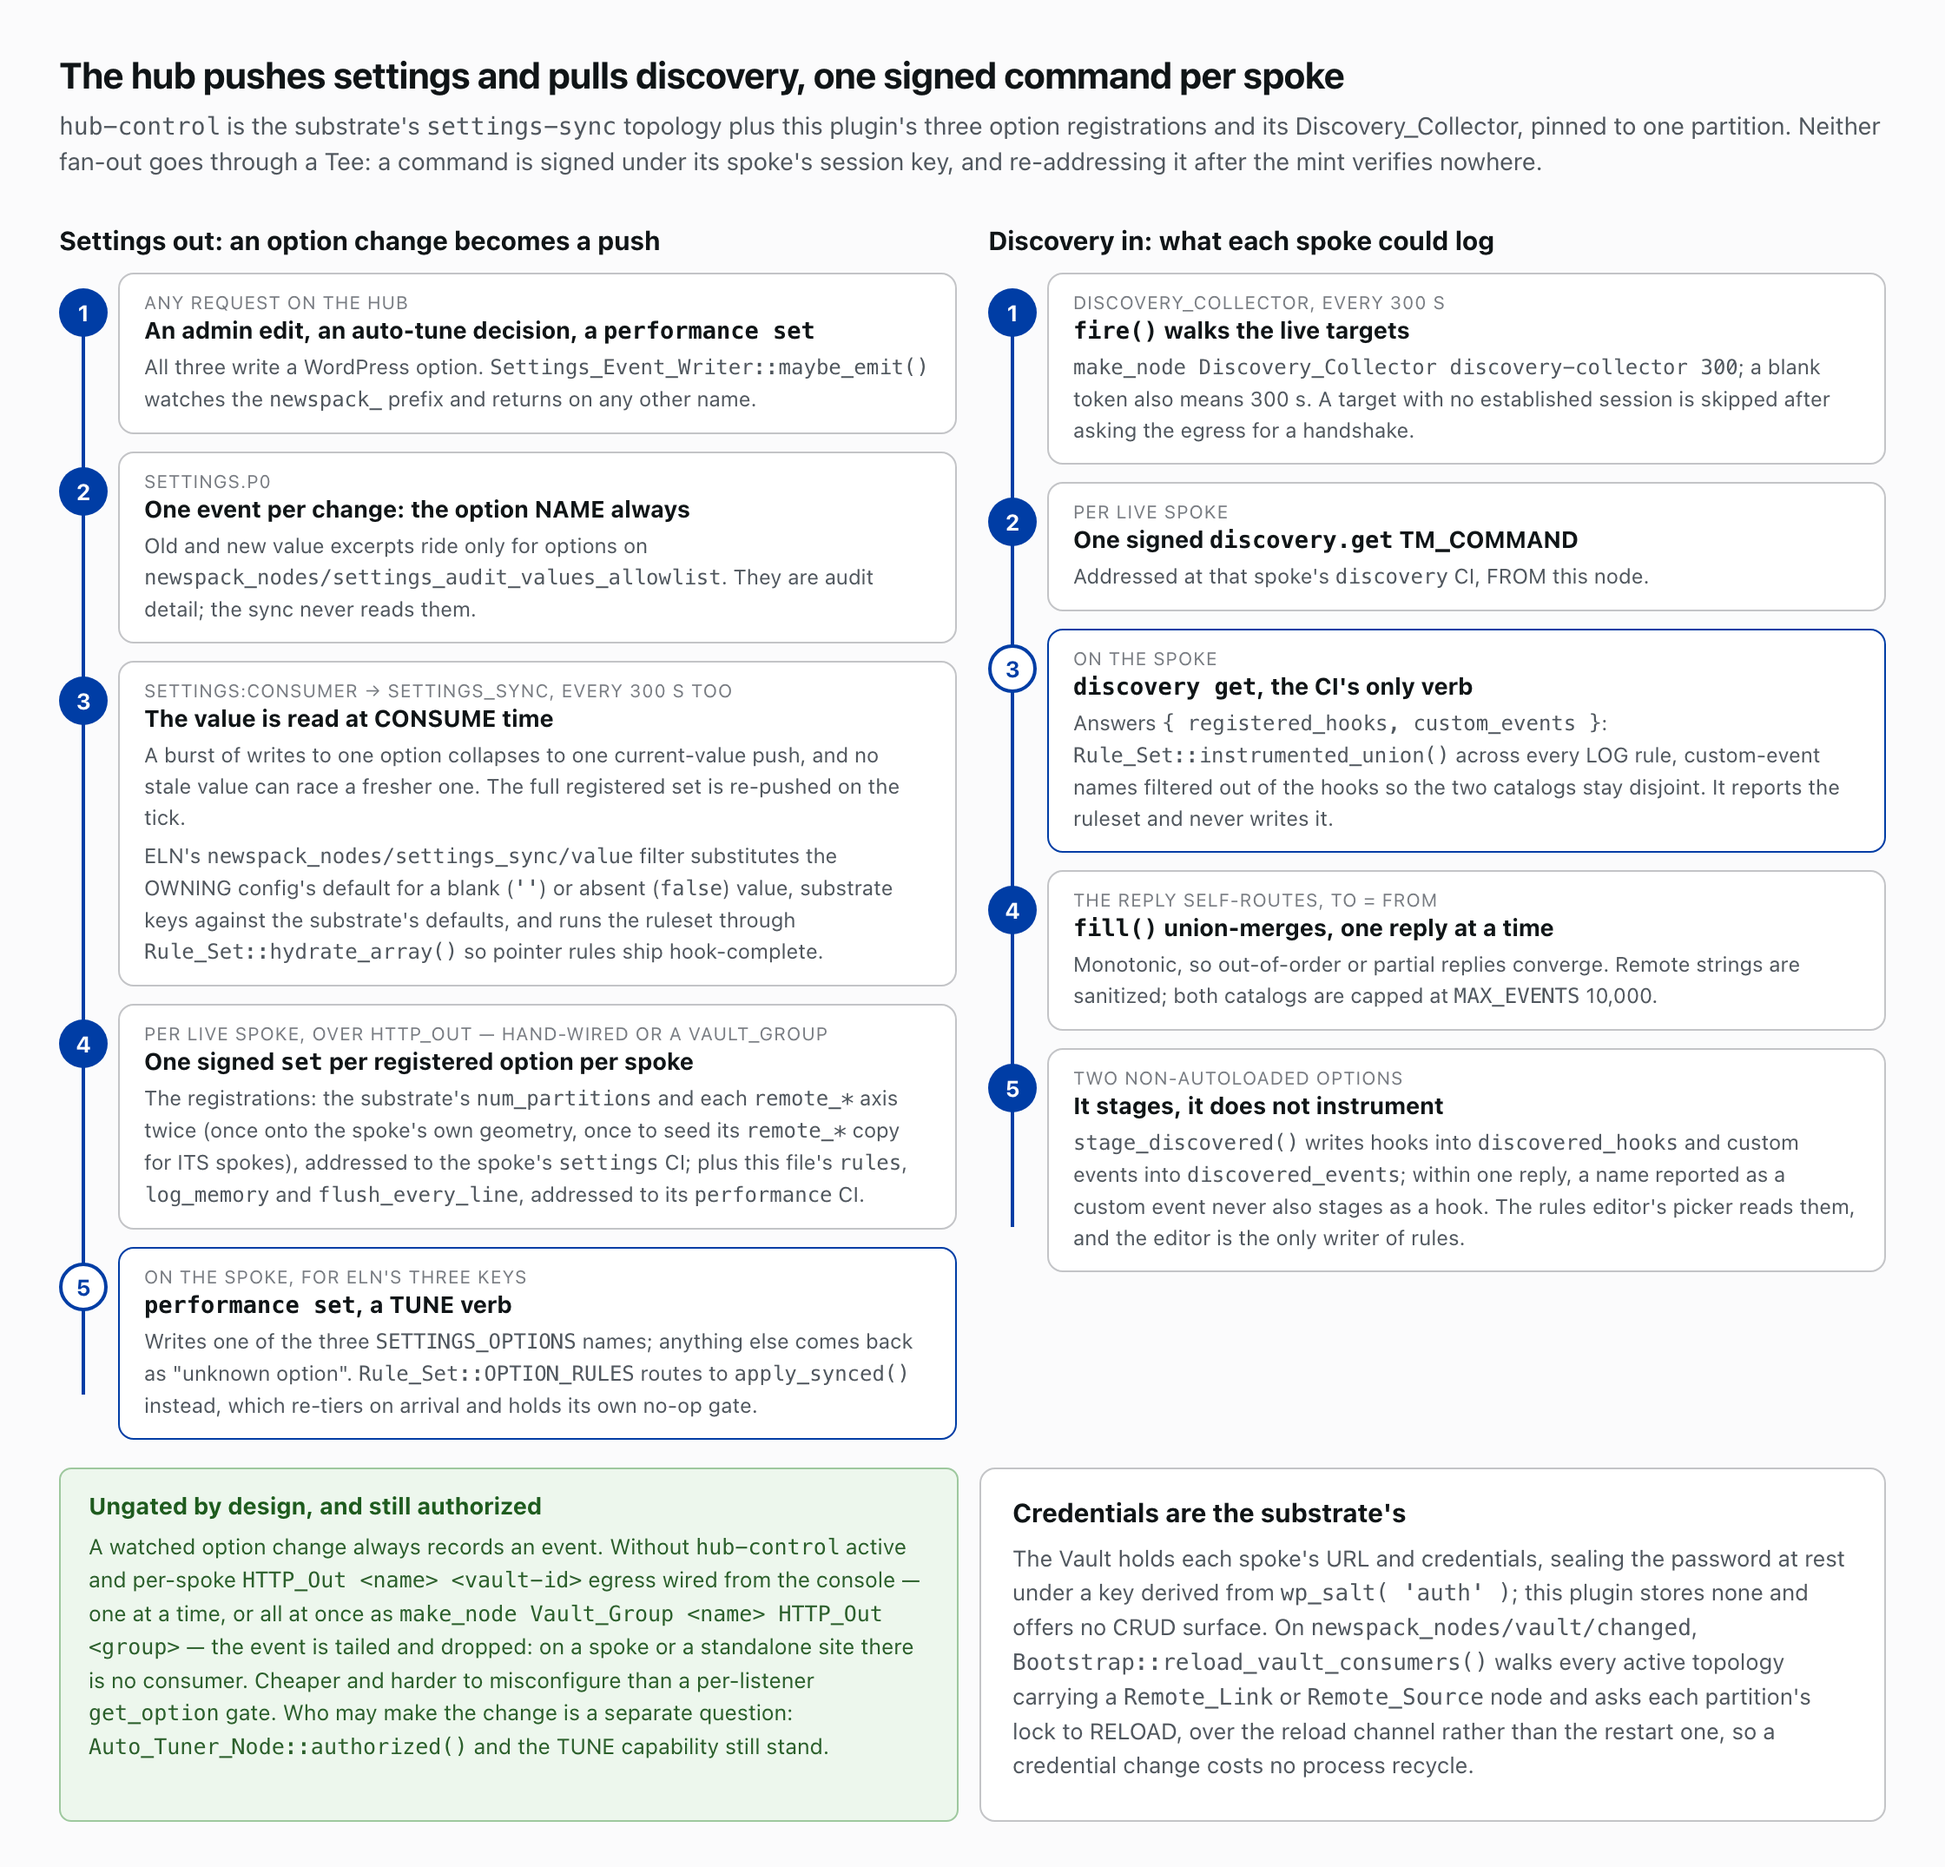
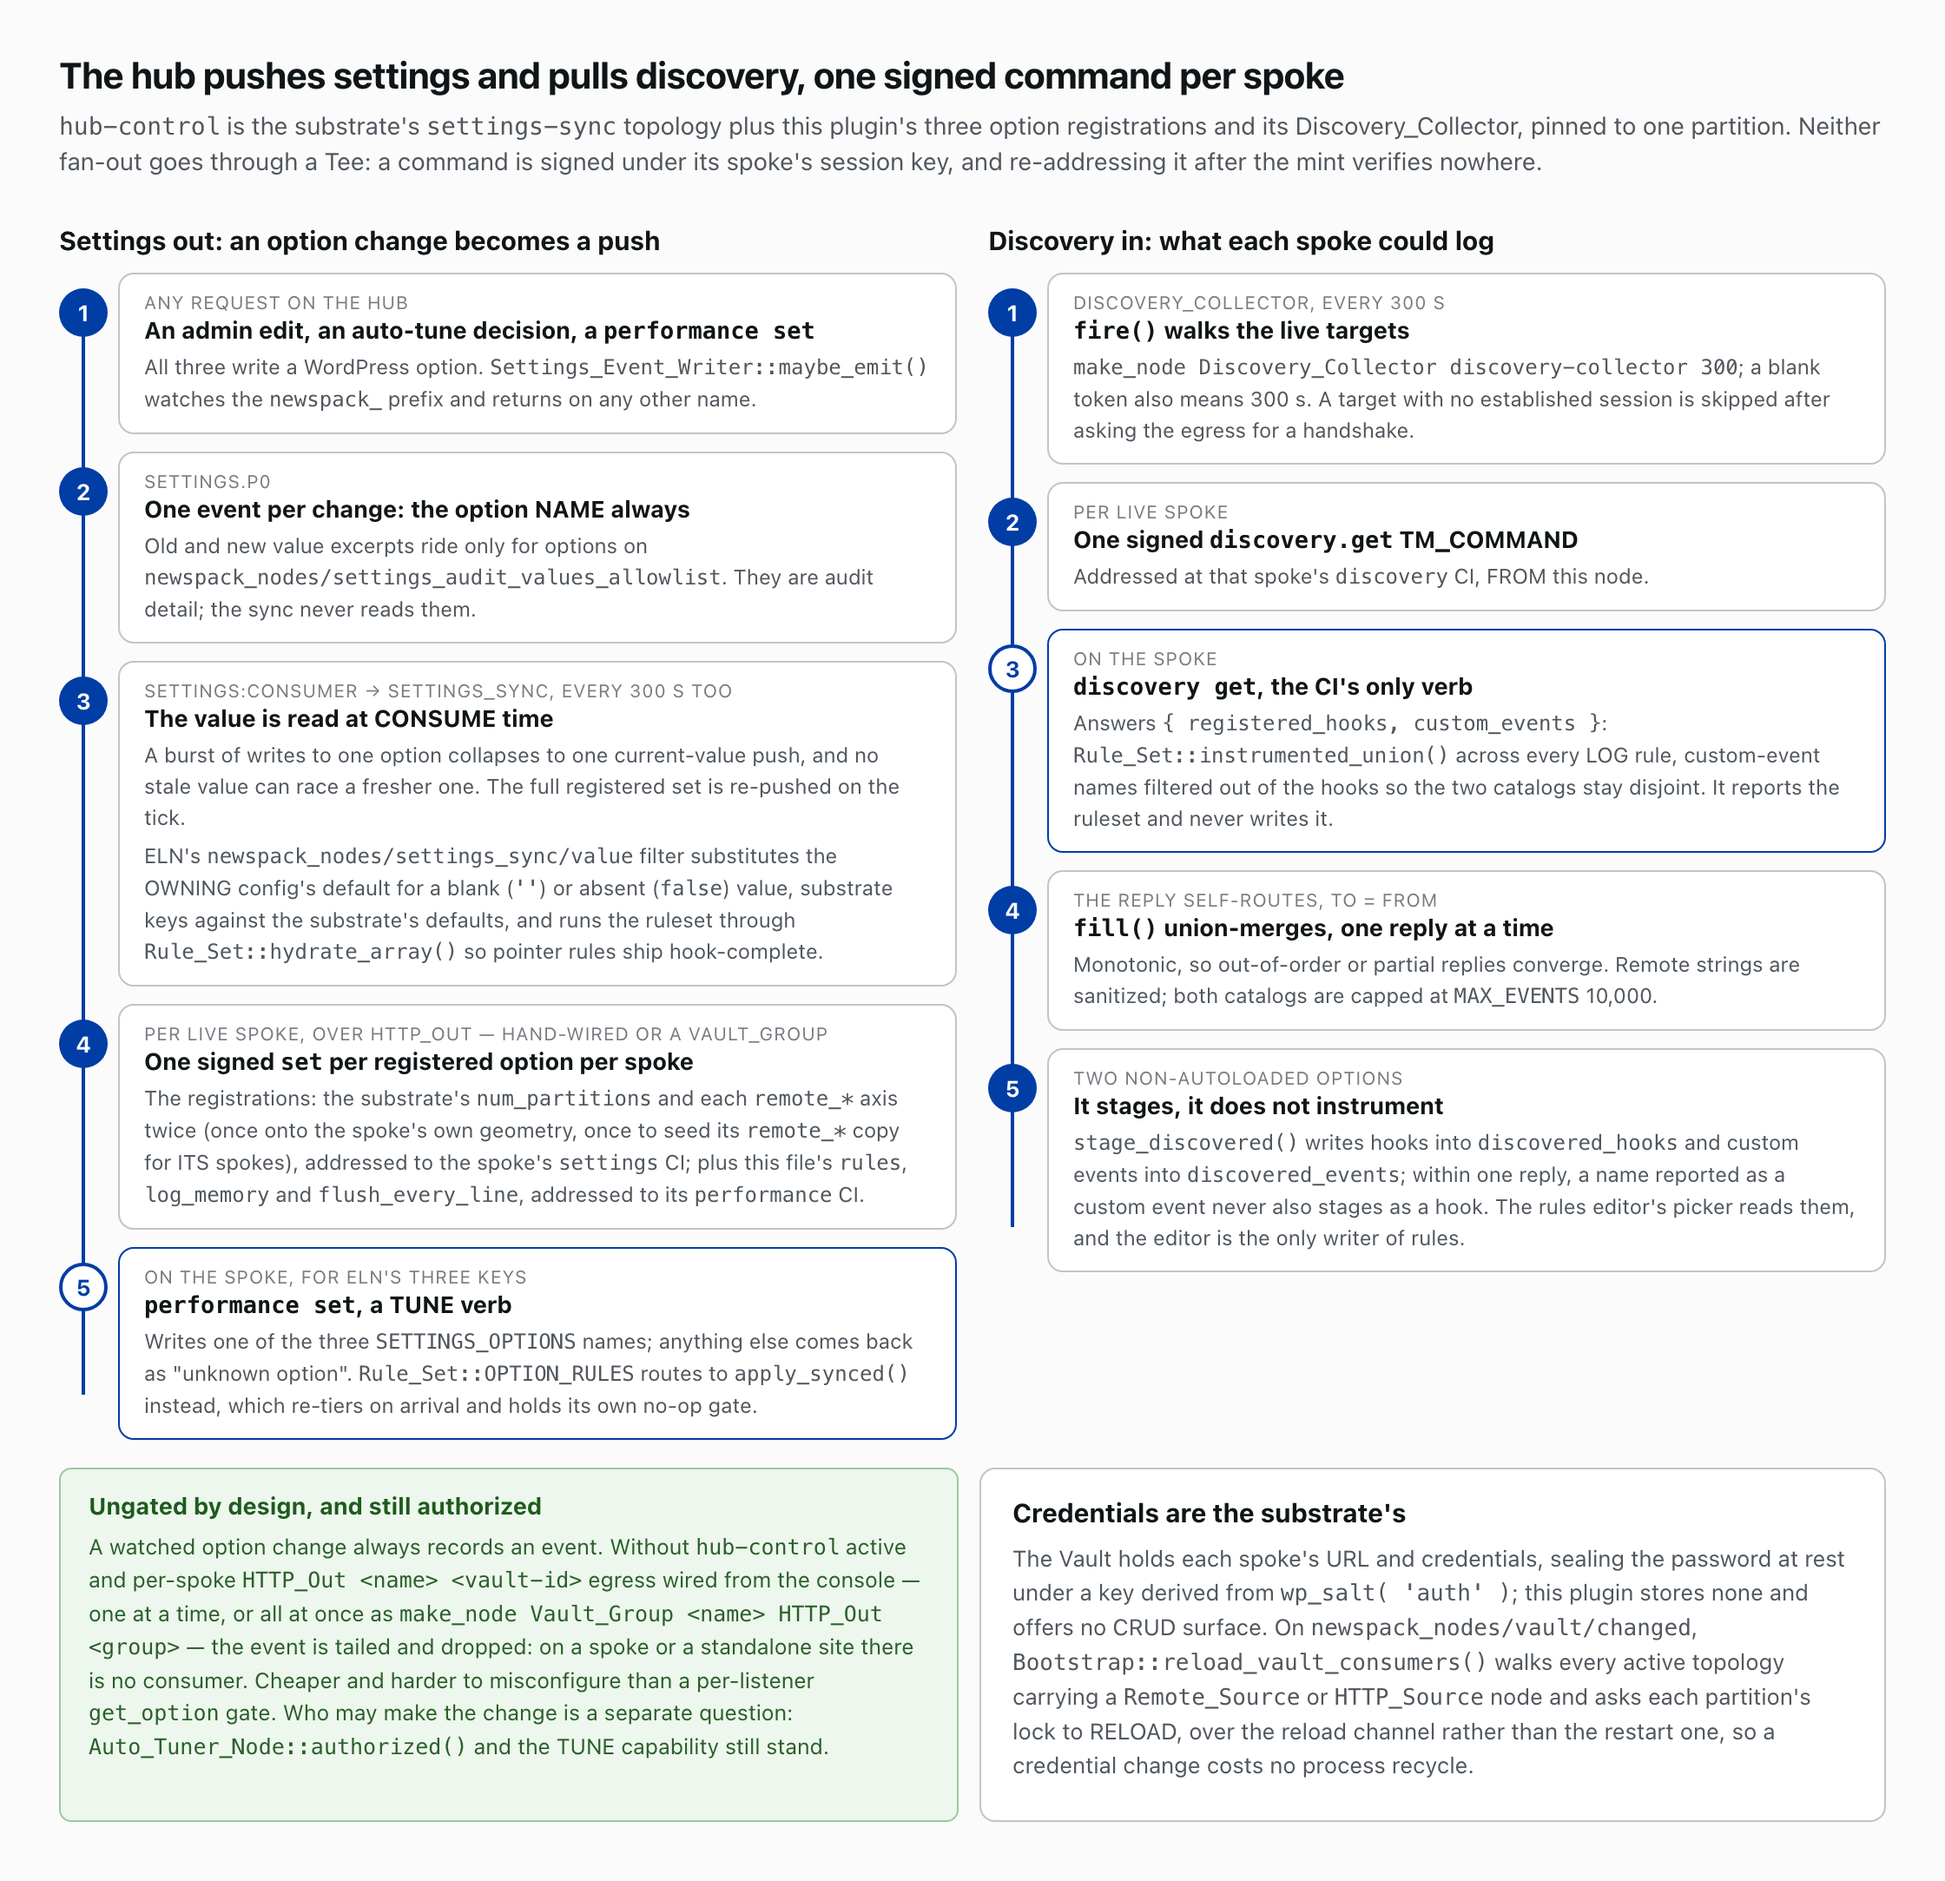
docs: name Remote_Broker in the hub-control diagram

diff --git a/docs/img/ag-hub-control.html b/docs/img/ag-hub-control.html
@@ -48,6 +48,6 @@
 
 <div class="bottom">
   <div class="ok"><h4>Ungated by design, and still authorized</h4><p>A watched option change always records an event. Without <span class="mono">hub-control</span> active and per-spoke <span class="mono">HTTP_Out &lt;name&gt; &lt;vault-id&gt;</span> egress wired from the console — one at a time, or all at once as <span class="mono">make_node Vault_Group &lt;name&gt; HTTP_Out &lt;group&gt;</span> — the event is tailed and dropped: on a spoke or a standalone site there is no consumer. Cheaper and harder to misconfigure than a per-listener <span class="mono">get_option</span> gate. Who may make the change is a separate question: <span class="mono">Auto_Tuner_Node::authorized()</span> and the TUNE capability still stand.</p></div>
-  <div class="card"><h3>Credentials are the substrate's</h3><p>The Vault holds each spoke's URL and credentials, sealing the password at rest under a key derived from <span class="mono">wp_salt( 'auth' )</span>; this plugin stores none and offers no CRUD surface. On <span class="mono">newspack_nodes/vault/changed</span>, <span class="mono">Bootstrap::reload_vault_consumers()</span> walks every active topology carrying a <span class="mono">Remote_Link</span> or <span class="mono">Remote_Source</span> node and asks each partition's lock to RELOAD, over the reload channel rather than the restart one, so a credential change costs no process recycle.</p></div>
+  <div class="card"><h3>Credentials are the substrate's</h3><p>The Vault holds each spoke's URL and credentials, sealing the password at rest under a key derived from <span class="mono">wp_salt( 'auth' )</span>; this plugin stores none and offers no CRUD surface. On <span class="mono">newspack_nodes/vault/changed</span>, <span class="mono">Bootstrap::reload_vault_consumers()</span> walks every active topology carrying a <span class="mono">Remote_Source</span> or <span class="mono">HTTP_Source</span> node and asks each partition's lock to RELOAD, over the reload channel rather than the restart one, so a credential change costs no process recycle.</p></div>
 </div>
 </div>
